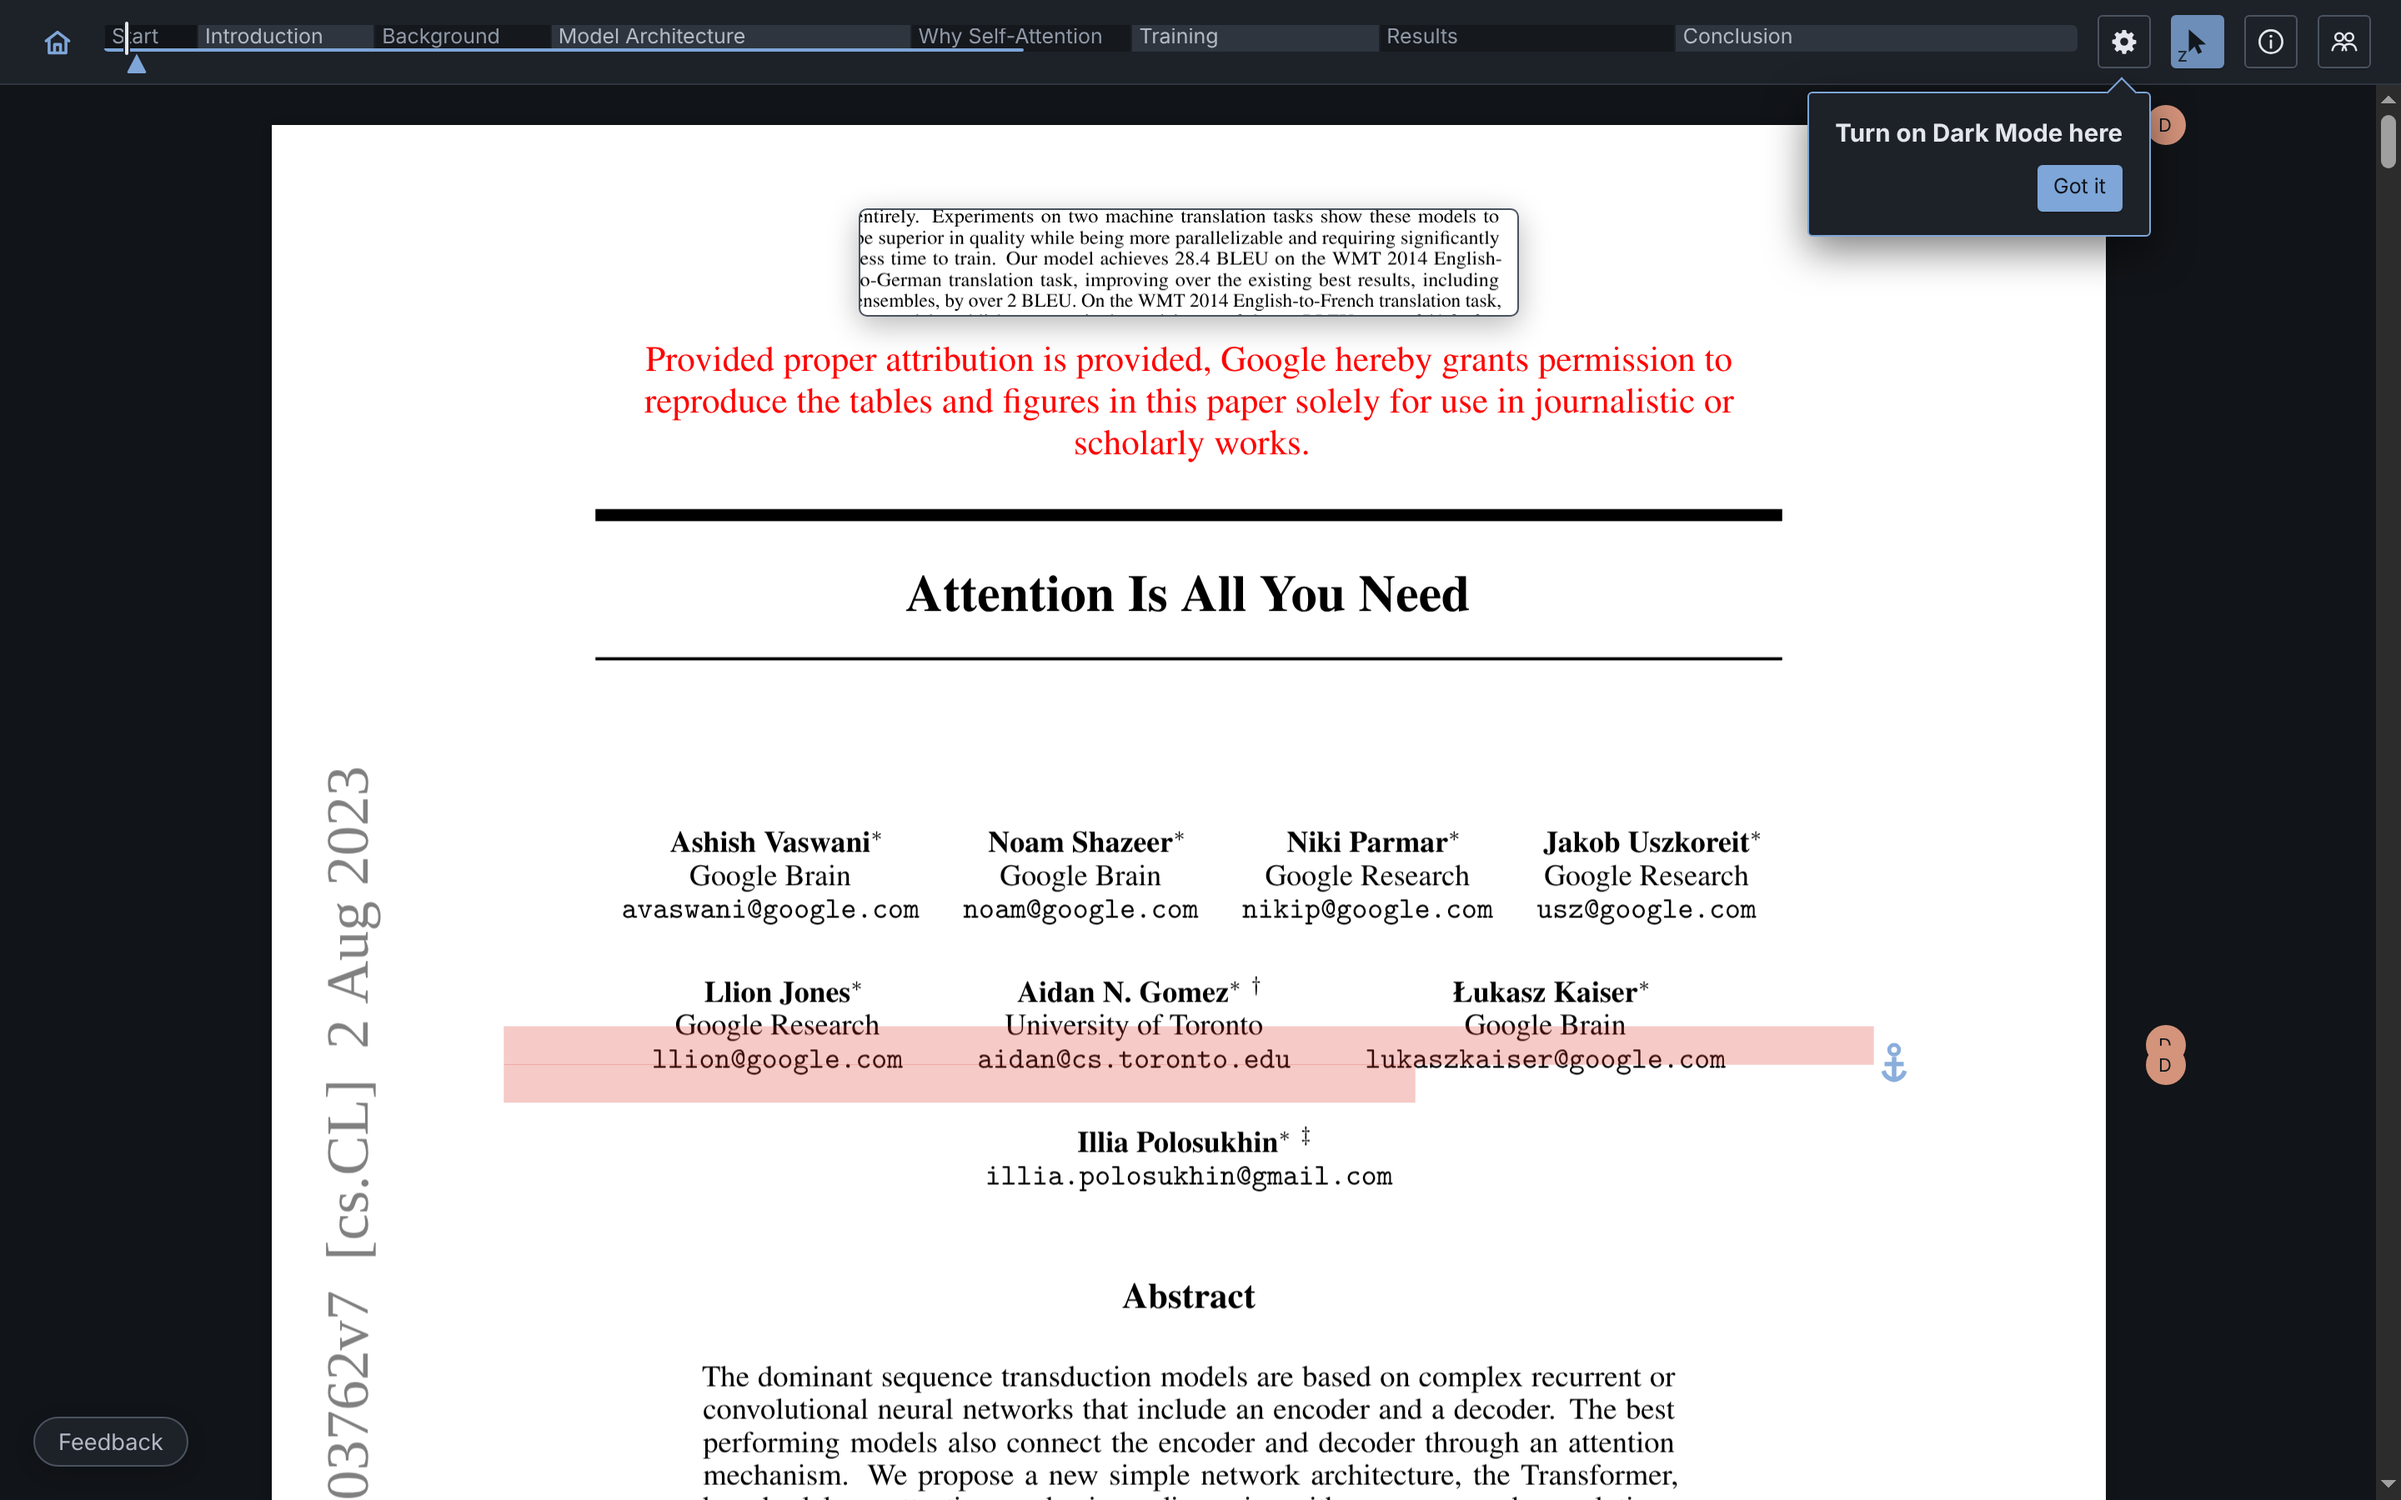
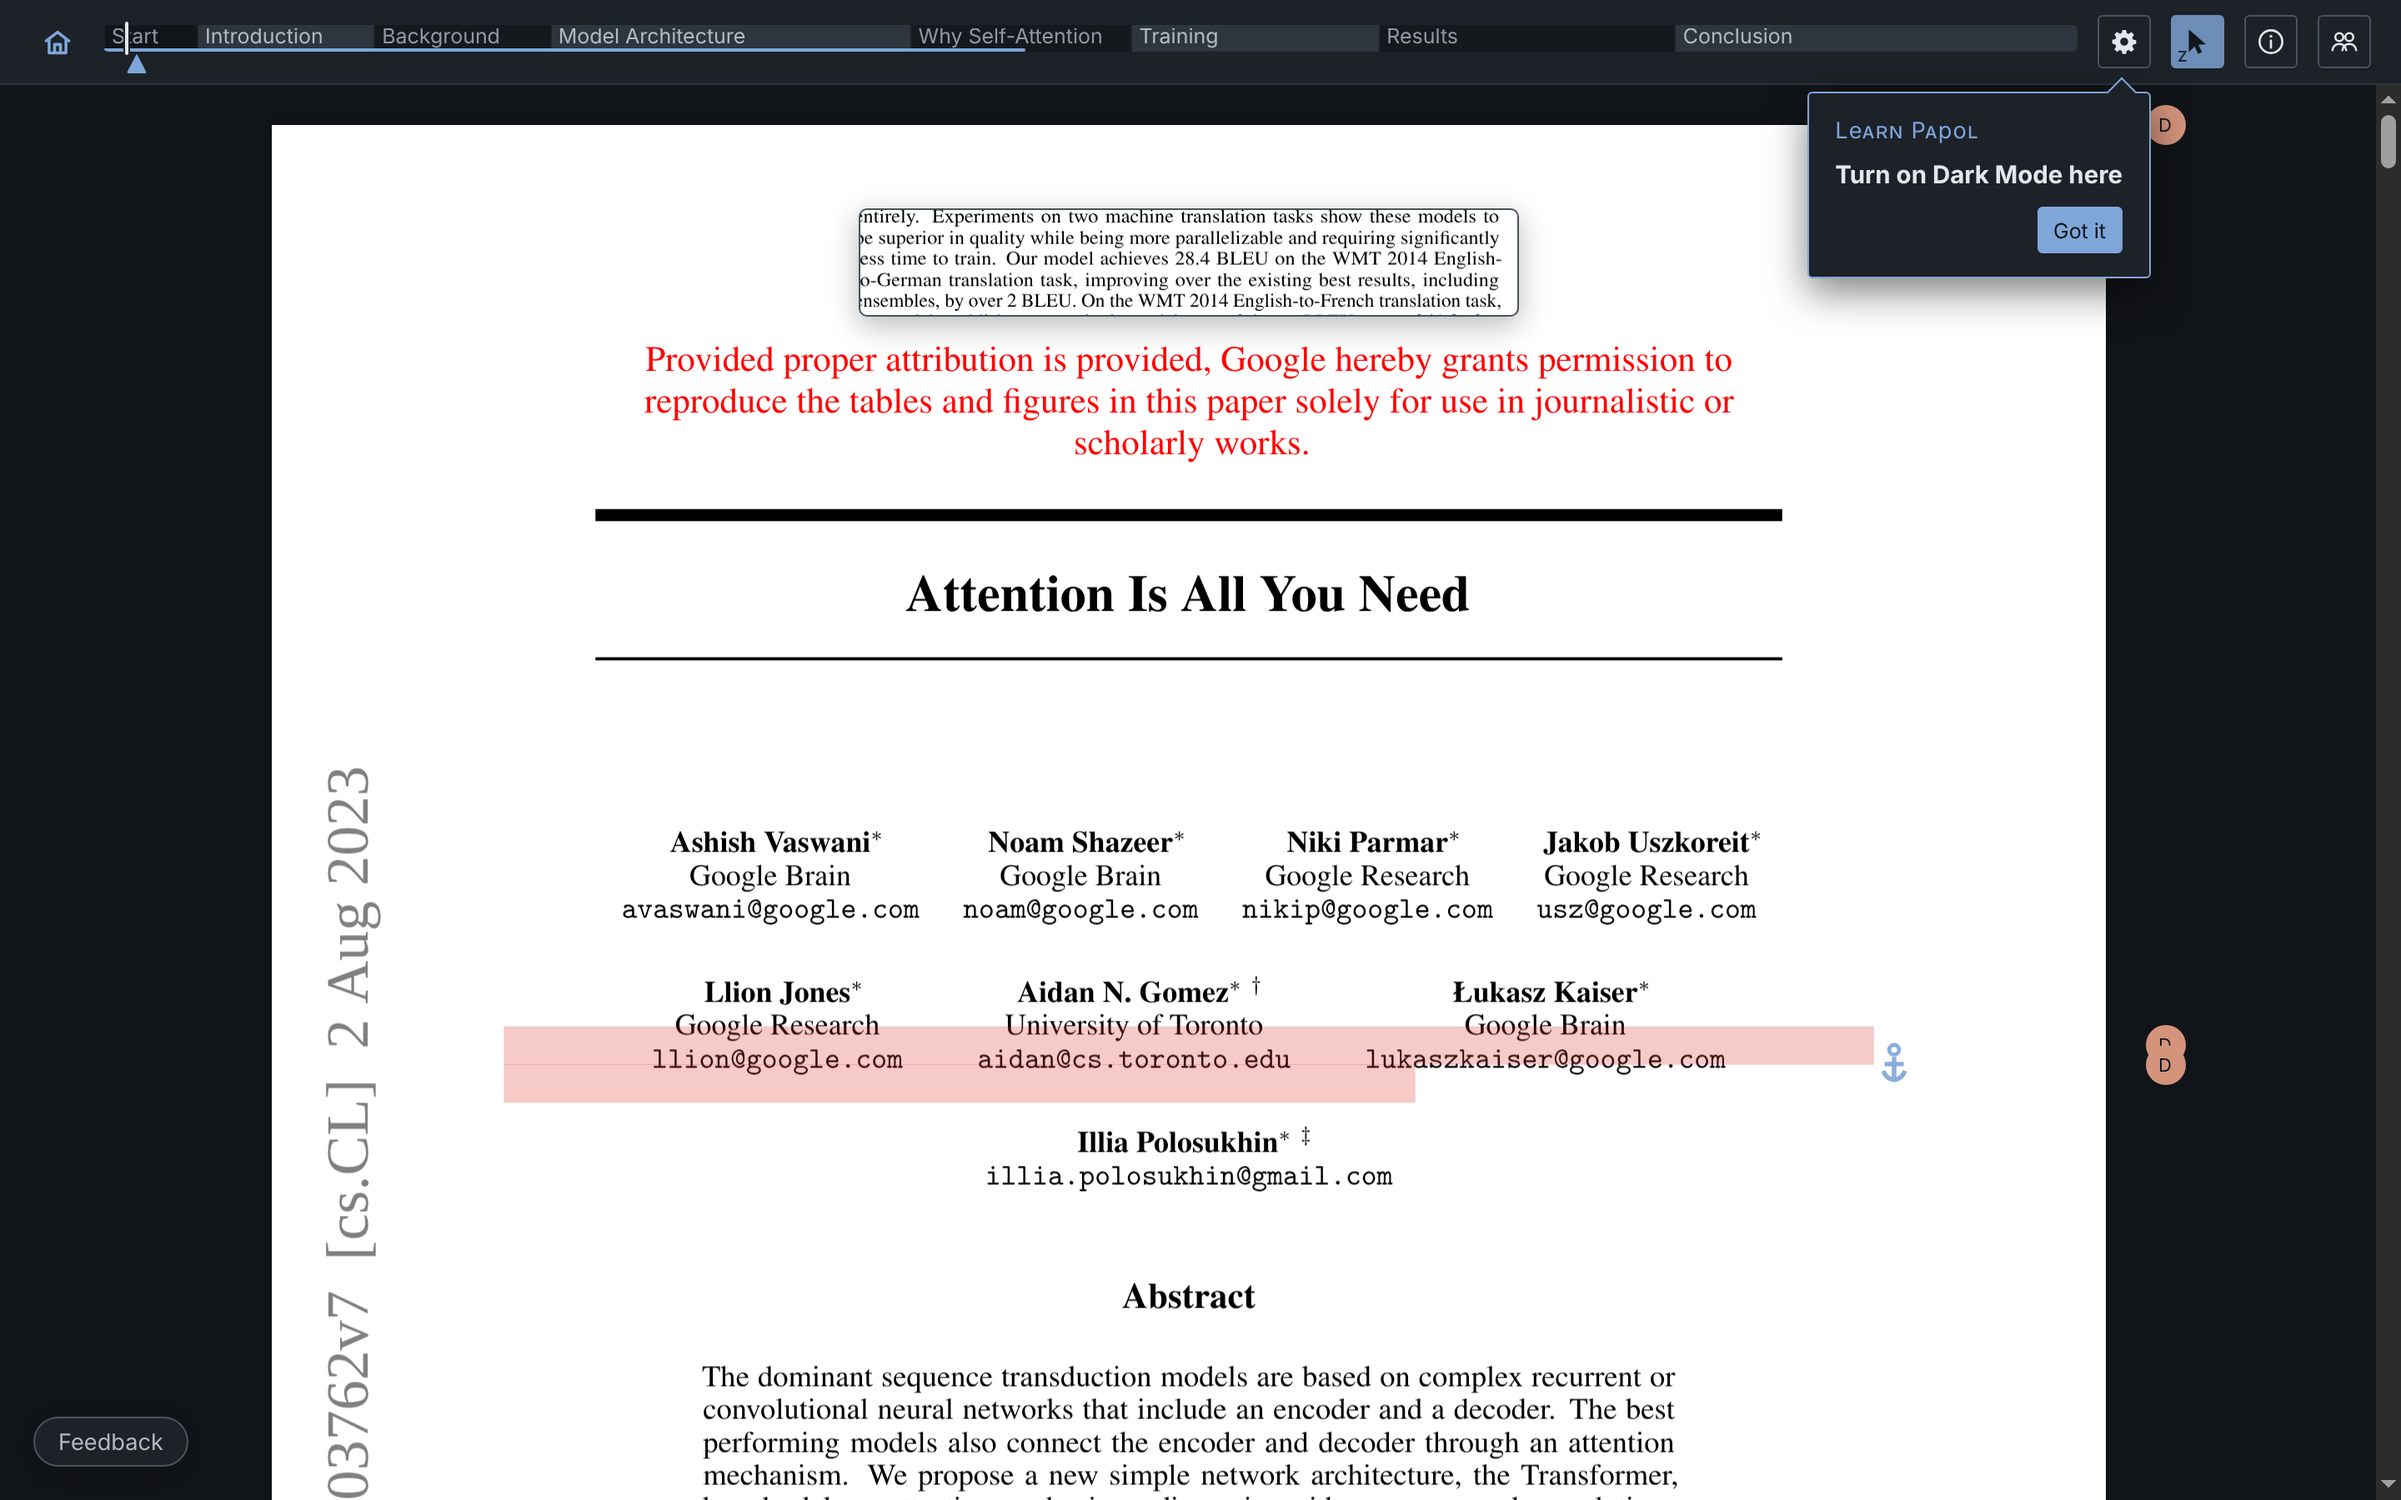
Bring back the tip's Learn Papol heading, and centre Got it by its capitals
The tip reads "Learn Papol" over "Turn on Dark Mode here". The words
of the viewer's Got it buttons sat about two pixels high in their boxes;
they are trimmed to their capitals now, as a plain button's are, at the
same height.

Claude-Session: https://claude.ai/code/session_01PQZzMUSLzbMzyJu1QXW1xt

Changed region(s): [[0.75, 0.0622, 0.9062, 0.2178]]

diff --git a/viewer/src/styles.js b/viewer/src/styles.js
@@ -796,6 +796,16 @@ ${fileDropStyles}
   background: var(--accent);
   color: var(--ink-inverse);
 }
+/* Its words centred by their capitals, as a plain button's are
+   (commonStyles): left to the line box they rode two pixels high. */
+@supports (text-box: trim-both cap alphabetic) and (height: 1cap) and (height: 1lh) {
+  .learn-papol .learn-papol-close {
+    --cap-room: calc((1lh - 1cap) / 2);
+    align-content: center;
+    padding-block: calc(4px + var(--cap-room));
+    text-box: trim-both cap alphabetic;
+  }
+}
 
 .viewer-bar .spacer { flex: 1; }
 

diff --git a/shared/featureStates.js b/shared/featureStates.js
@@ -56,7 +56,7 @@ export const DARK_PAGES_TIP = {
   key: 'papol_learn_dark_pages',
   value: 'seen',
   name: 'Dark pages tip',
-  description: 'The card under the viewer’s gear that says dark mode can be turned on there, shown until the user dismisses it, opens the gear or turns dark pages on.',
+  description: 'The Learn Papol card under the viewer’s gear that says dark mode can be turned on there, shown until the user dismisses it, opens the gear or turns dark pages on.',
   setLabel: 'Shown',
   unsetLabel: 'Not shown',
 };

diff --git a/viewer/src/Navigator.jsx b/viewer/src/Navigator.jsx
@@ -759,6 +759,7 @@ function MarkChoices({ shown, onShown, hint }) {
       </button>
       {hint && !told && !open && !darkPages && (
         <span className="learn-papol dark-pages-tip" role="dialog" aria-labelledby="dark-pages-tip-title">
+          <span className="kicker">Learn Papol</span>
           <strong id="dark-pages-tip-title">Turn on Dark Mode here</strong>
           <button type="button" className="learn-papol-close" onClick={tell} aria-label="Dismiss this tip">
             Got it
